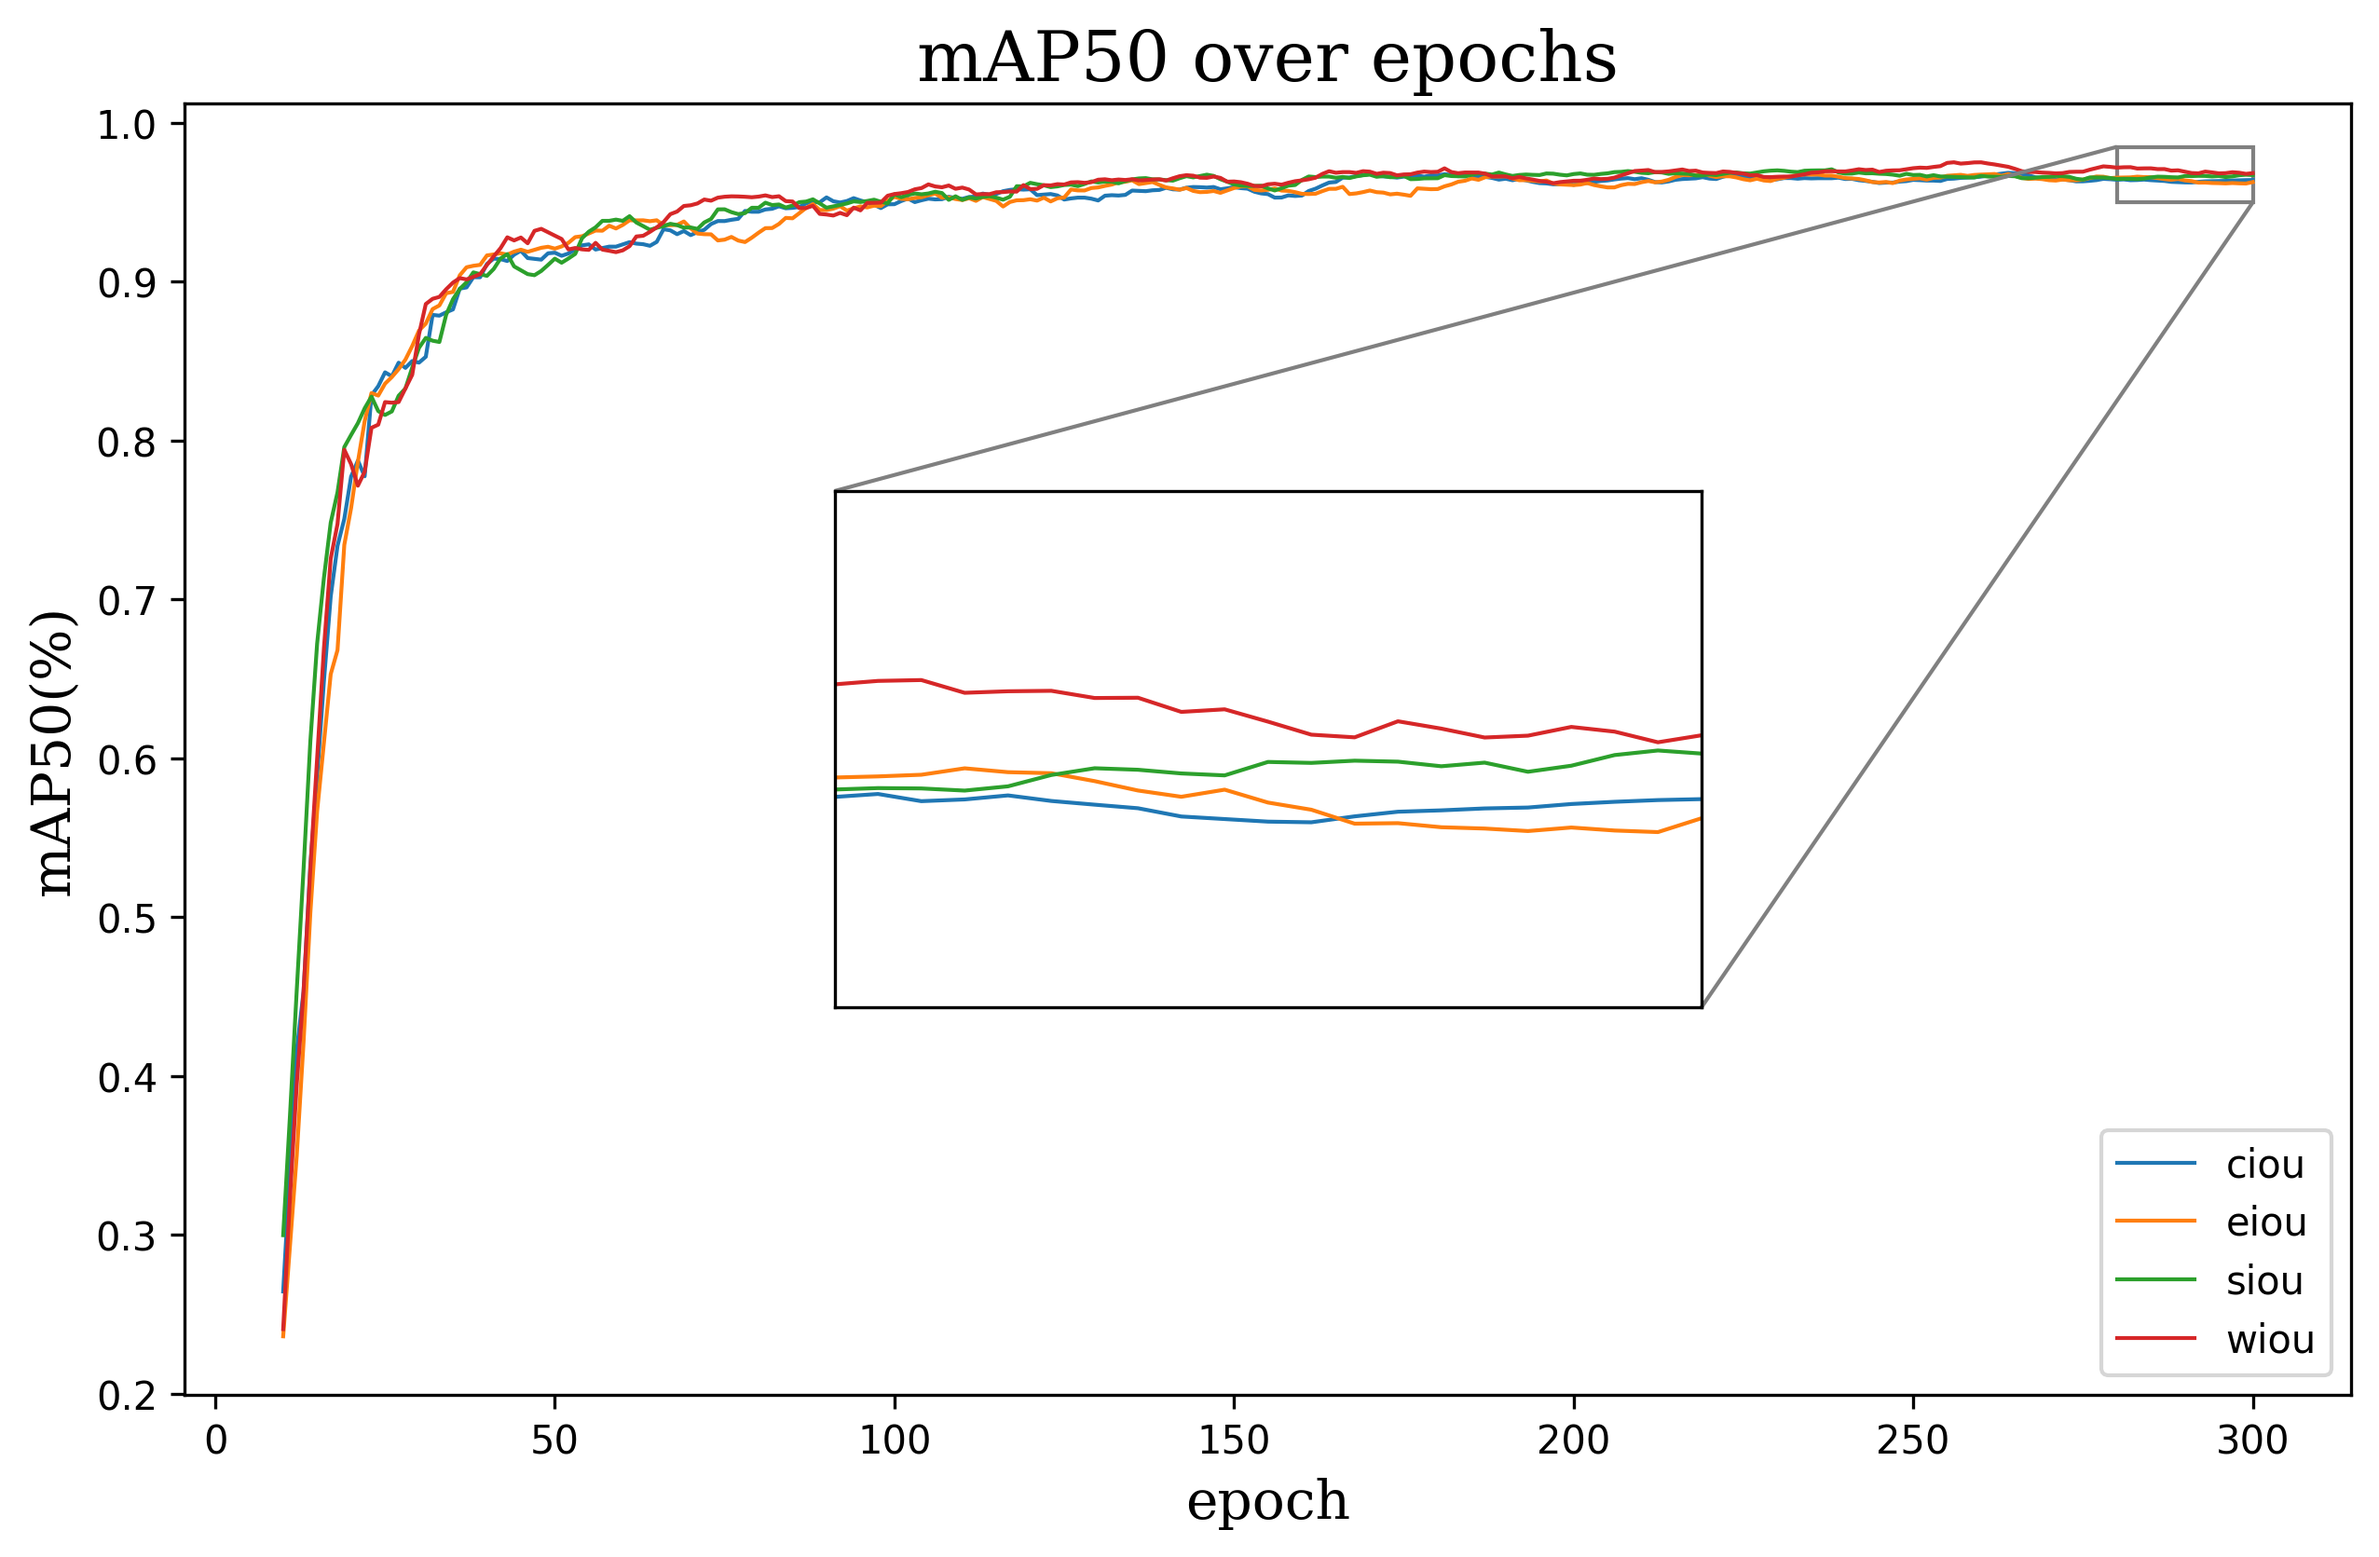
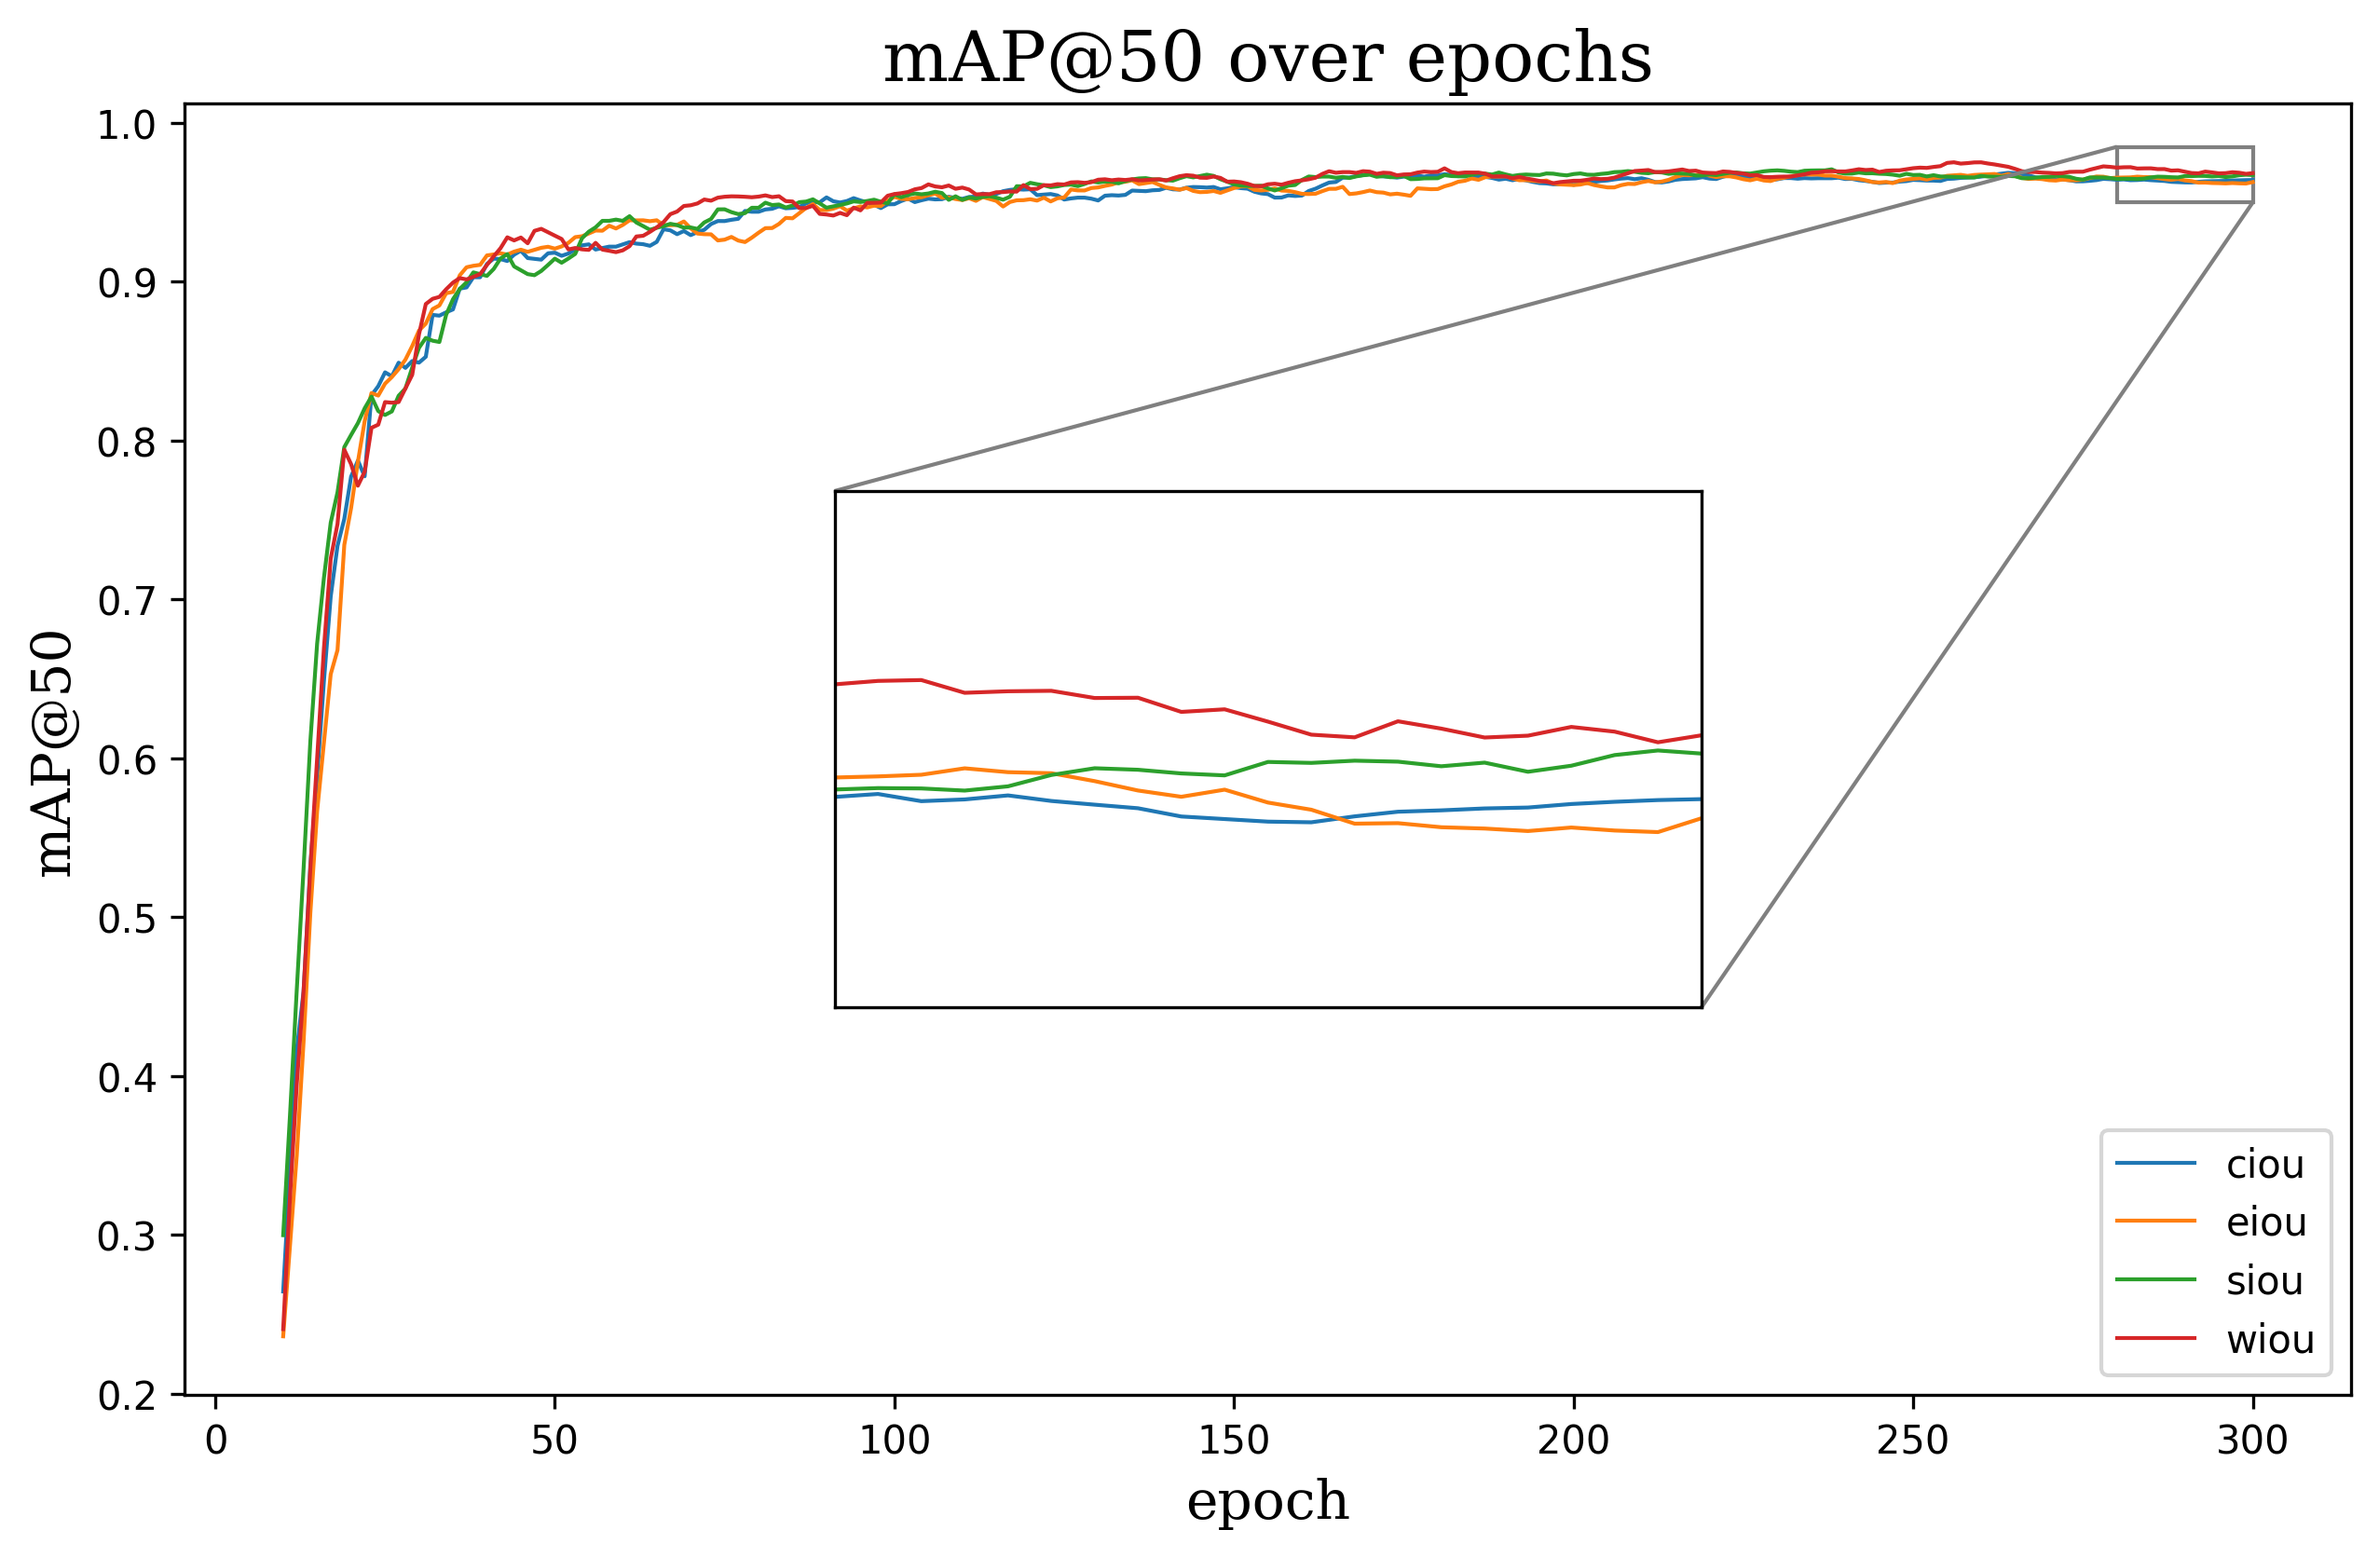
update curve

Changed region(s): [[0.3713, 0.0, 0.7117, 0.0622], [0.0, 0.4045, 0.0309, 0.5601]]

diff --git a/curve_.py b/curve_.py
@@ -34,12 +34,10 @@ except FileNotFoundError:
     exit()
 
 # iou
-# datas = [data_ciou, data_eiou, data_siou, data_wiou]
-# labels = ['ciou', 'eiou', 'siou', 'wiou']
+datas = [data_ciou, data_eiou, data_siou, data_wiou]
+labels = ['ciou', 'eiou', 'siou', 'wiou']
 
 # ablation
-datas = [data_v8s, data_our]
-labels = ['yolov8s', 'our model']
 
 def smooth_data(data, column, window_size):
     return data[column].rolling(window=window_size, center=False).mean()
@@ -78,18 +76,20 @@ def plot_curve(datas, x_column, y_columns, title, xlabel, ylabel, ranger, loc, s
 
 
 # iou
-# plot_curve(datas, 'epoch', ['train/box_loss'], 'train/box loss over epochs', 'epoch', 'loss', [280, 300, 0.75, 0.9], ['lower left', 1], 'v8n_train_box_loss.png')
-# plot_curve(datas, 'epoch', ['val/box_loss'], 'val/box loss over epochs', 'epoch', 'loss', [280, 300, 0.8, 0.9], ['lower left', 1], 'v8n_val_box_loss.png')
-# plot_curve(datas, 'epoch', ['metrics/precision(B)'], 'precision over epochs', 'epoch', 'loss', [280, 300, 0.85, 0.95], ['lower right', 'center'], 'v8n_precision.png')
-# plot_curve(datas, 'epoch', ['metrics/recall(B)'], 'recall over epochs', 'epoch', 'loss', [280, 300, 0.87, 0.95], ['lower right', 'center'], 'v8n_recall.png')
-# plot_curve(datas, 'epoch', ['metrics/mAP50(B)'], 'mAP50 over epochs', 'epoch', 'mAP50(%)', [280, 300, 0.95, 0.985], ['lower right', 'center'], 'v8n_map50.png')
-# plot_curve(datas, 'epoch', ['metrics/mAP50-95(B)'], 'mAP50-95 over epochs', 'epoch', 'mAP50-95', [280, 300, 0.68, 0.74], ['lower right', 'center'], 'v8n_map50_95.png')
+plot_curve(datas, 'epoch', ['train/box_loss'], 'train/box loss over epochs', 'epoch', 'loss', [280, 300, 0.75, 0.9], ['lower left', 1], 'v8n_train_box_loss.png')
+plot_curve(datas, 'epoch', ['val/box_loss'], 'val/box loss over epochs', 'epoch', 'loss', [280, 300, 0.8, 0.9], ['lower left', 1], 'v8n_val_box_loss.png')
+plot_curve(datas, 'epoch', ['metrics/precision(B)'], 'precision over epochs', 'epoch', 'loss', [280, 300, 0.85, 0.95], ['lower right', 'center'], 'v8n_precision.png')
+plot_curve(datas, 'epoch', ['metrics/recall(B)'], 'recall over epochs', 'epoch', 'loss', [280, 300, 0.87, 0.95], ['lower right', 'center'], 'v8n_recall.png')
+plot_curve(datas, 'epoch', ['metrics/mAP50(B)'], 'mAP@50 over epochs', 'epoch', 'mAP@50', [280, 300, 0.95, 0.985], ['lower right', 'center'], 'v8n_map50.png')
+plot_curve(datas, 'epoch', ['metrics/mAP50-95(B)'], 'mAP@50:95 over epochs', 'epoch', 'mAP@50:95', [280, 300, 0.68, 0.74], ['lower right', 'center'], 'v8n_map50_95.png')
+#
 
-
-
-plot_curve(datas, 'epoch', ['train/box_loss'], 'train/box loss over epochs', 'epoch', 'loss', [280, 300, 0.75, 0.9], ['upper right', 1], 'ablation_train_box_loss.png', False, 30)
-plot_curve(datas, 'epoch', ['val/box_loss'], 'val/box loss over epochs', 'epoch', 'loss', [280, 300, 0.8, 0.9], ['upper right', 1], 'ablation_val_box_loss.png', False, 30)
-plot_curve(datas, 'epoch', ['metrics/precision(B)'], 'precision over epochs', 'epoch', 'loss', [280, 300, 0.85, 0.95], ['lower right', 'center'], 'ablation_precision.png', False, 3)
-plot_curve(datas, 'epoch', ['metrics/recall(B)'], 'recall over epochs', 'epoch', 'loss', [280, 300, 0.87, 0.95], ['lower right', 'center'], 'ablation_recall.png', False, 5)
-plot_curve(datas, 'epoch', ['metrics/mAP50(B)'], 'mAP50 over epochs', 'epoch', 'mAP50(%)', [280, 300, 0.95, 0.985], ['lower right', 'center'], 'ablation_map50.png', False, 50)
-plot_curve(datas, 'epoch', ['metrics/mAP50-95(B)'], 'mAP50-95 over epochs', 'epoch', 'mAP50-95', [280, 300, 0.68, 0.74], ['lower right', 'center'], 'ablation_map50_95.png', False, 50)
+# datas = [data_v8s, data_our]
+# labels = ['yolov8s', 'our model']
+#
+# plot_curve(datas, 'epoch', ['train/box_loss'], 'train/box loss over epochs', 'epoch', 'loss', [280, 300, 0.75, 0.9], ['upper right', 1], 'ablation_train_box_loss.png', False, 30)
+# plot_curve(datas, 'epoch', ['val/box_loss'], 'val/box loss over epochs', 'epoch', 'loss', [280, 300, 0.8, 0.9], ['upper right', 1], 'ablation_val_box_loss.png', False, 30)
+# plot_curve(datas, 'epoch', ['metrics/precision(B)'], 'precision over epochs', 'epoch', 'loss', [280, 300, 0.85, 0.95], ['lower right', 'center'], 'ablation_precision.png', False, 3)
+# plot_curve(datas, 'epoch', ['metrics/recall(B)'], 'recall over epochs', 'epoch', 'loss', [280, 300, 0.87, 0.95], ['lower right', 'center'], 'ablation_recall.png', False, 5)
+# plot_curve(datas, 'epoch', ['metrics/mAP50(B)'], 'mAP@50 over epochs', 'epoch', 'mAP@50', [280, 300, 0.95, 0.985], ['lower right', 'center'], 'ablation_map50.png', False, 50)
+# plot_curve(datas, 'epoch', ['metrics/mAP50-95(B)'], 'mAP@50:95 over epochs', 'epoch', 'mAP@50:95', [280, 300, 0.68, 0.74], ['lower right', 'center'], 'ablation_map50_95.png', False, 50)
